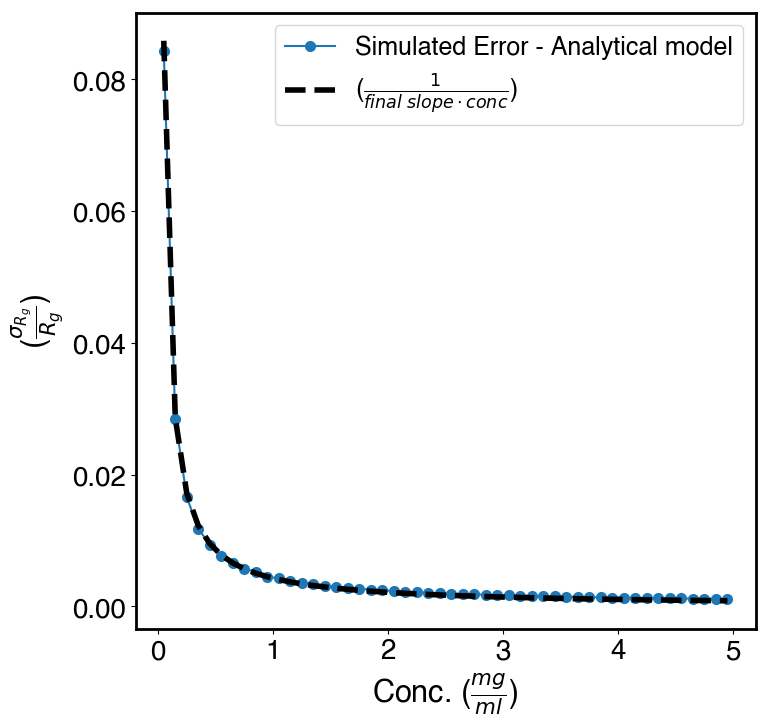
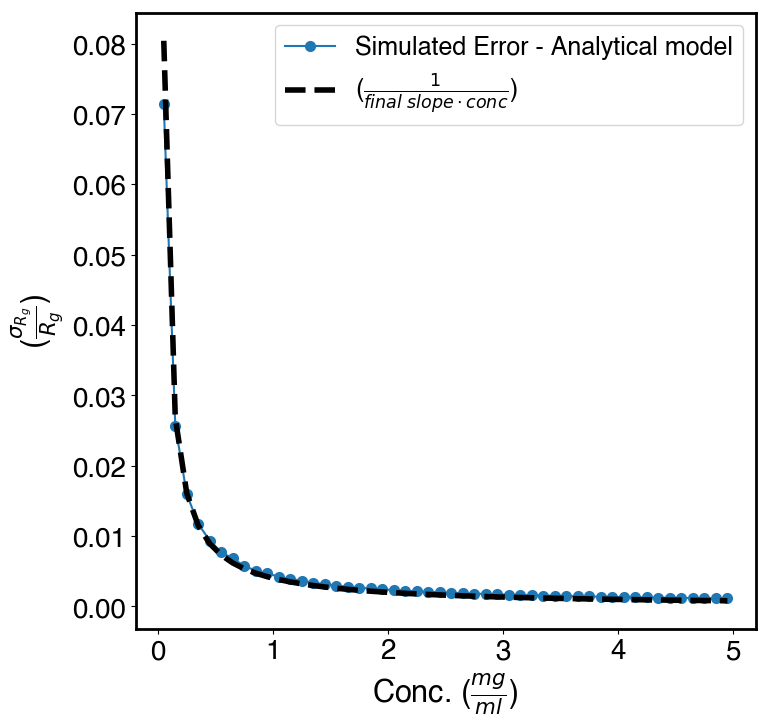
Input quick calculations of the contrast as a function of pressure, rather than just inputing a list of data

diff --git a/SAXSProf_err.py b/SAXSProf_err.py
@@ -168,8 +168,20 @@ err_data.plot_S2(conc, rgError, 1.0/(final_slope*np.array(conc)),
                  xlabel = 'Conc. ($\\frac{mg}{ml}$)', ylabel = '($\\frac{\sigma_{R_{g}}}{R_{g}}$)')
 
 # RM! 04.28.2020
-test = [30376724222.528214, 29959417761.80821, 28367436004.208202, 26530533976.208206, 23327730440.208195, 20586507413.8082, 19343066041.0082]
-I = saxs1.I_of_q_variable_contrast(saxs1.c, saxs1.mw, saxs1.buf_model_q, test)
+# Contrast values taken from RM script.
+density = [0.99707, 1.0015, 1.0184, 1.0379, 1.0719, 1.1010, 1.1142]
+pressure = [0, 10, 50, 100, 200, 300, 350]
+ps = []
+rho = []
+for i in range(len(density)):
+    ps.append(density[i] * 3.3428E+23)  # conversion factor from g/ml to electrons per cm^3
+
+for i in range(len(ps)):
+    rho.append((saxs1.pp - ps[i]) * (2.818 * 10 ** -13))
+
+print(rho)
+
+I = saxs1.I_of_q_variable_contrast(saxs1.c, saxs1.mw, saxs1.buf_model_q, rho)
 print ('testing function:', I[0])
 ######################################################
 

diff --git a/SAXS8.py b/SAXS8.py
@@ -561,6 +561,7 @@ class SAXS:
 
         RM! Currently, this script exports an array of arrays, with length equal to the length of the input contrast list.
         If the user returns I[0], the first array (i.e. the scattering curve at the first contrast value) will be returned.
+        Need to clean up the output possibly.
         """
         V = self.V
         R = self.R
